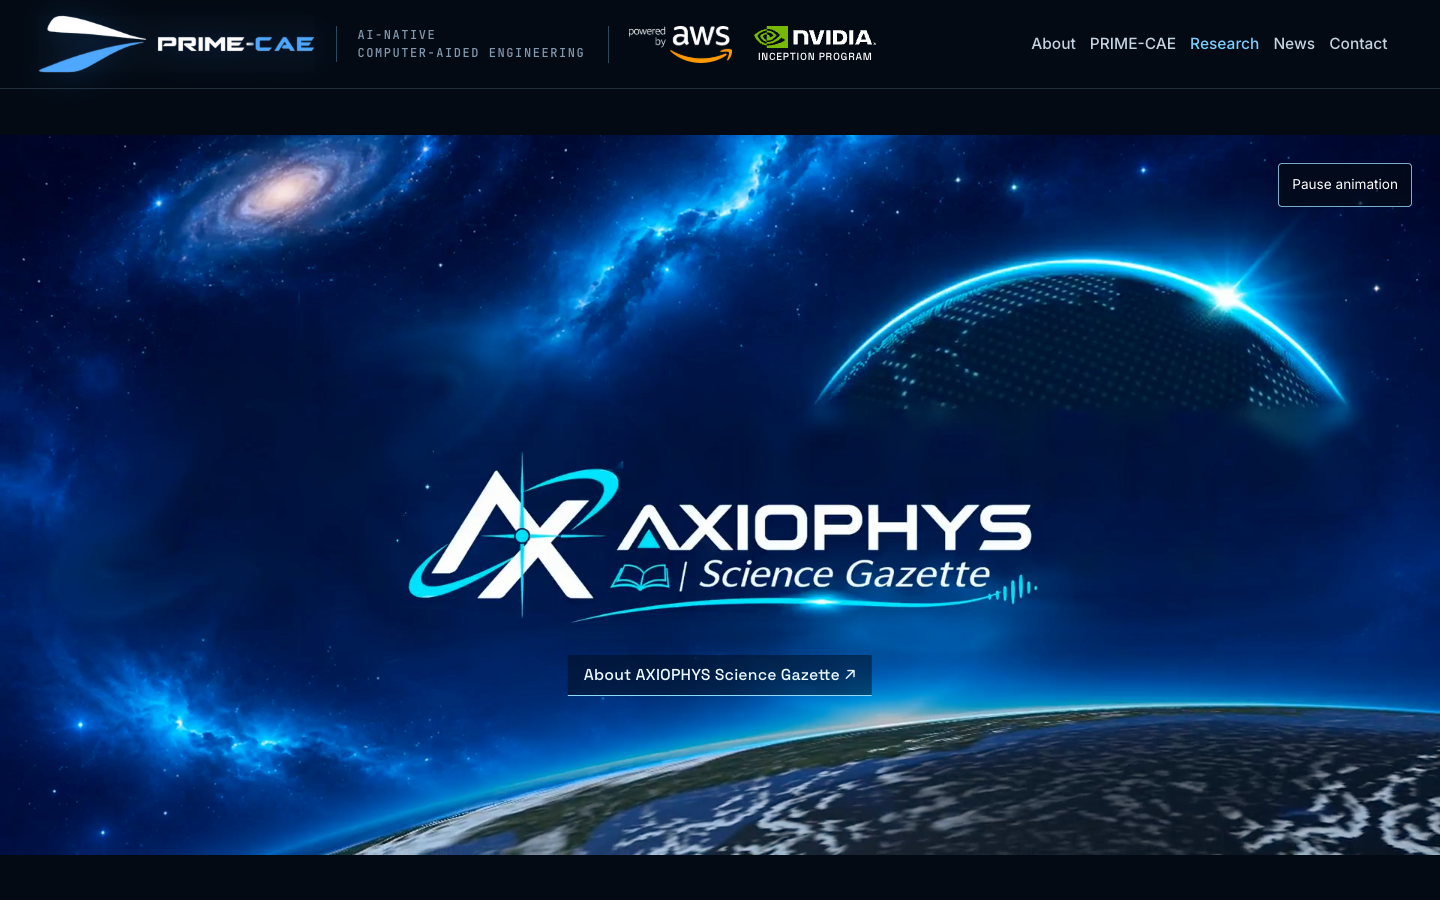
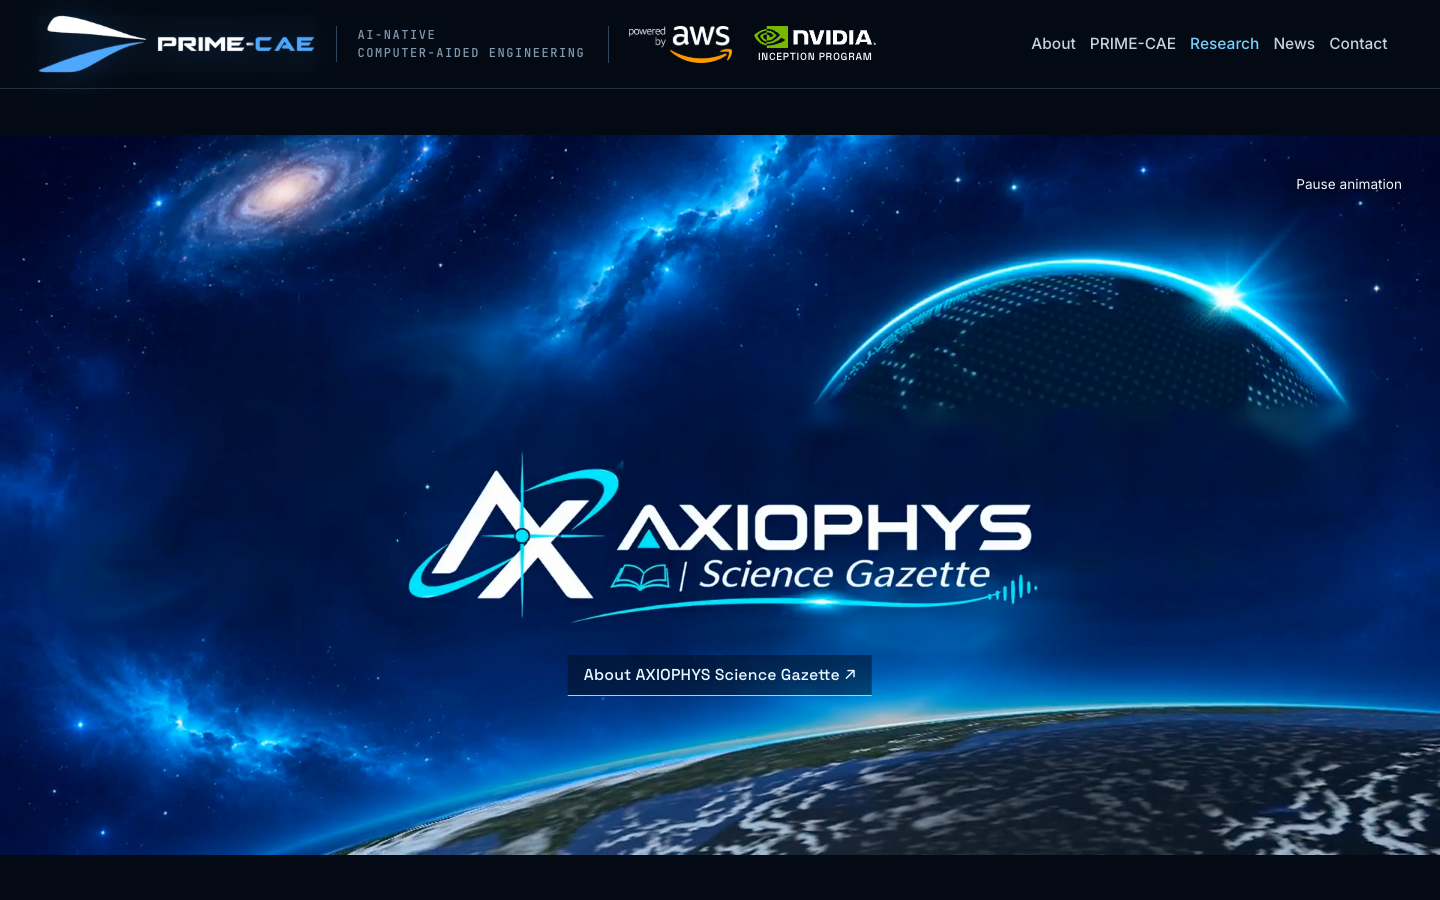
Tighten mobile Gazette hero and soften playback control

diff --git a/research.html b/research.html
@@ -1,4 +1,4 @@
-<!doctype html><html lang="en"><head><meta charset="utf-8"><meta name="viewport" content="width=device-width,initial-scale=1"><title>AXIOPHYS Science Gazette | Research &amp; Scientific Publications</title><meta name="description" content="Explore AXIOPHYS Science Gazette, the scientific communication platform of AXIOPHYS R&amp;D, featuring computational science, engineering demonstrations, research papers and PRIME-CAE manuals."><link rel="canonical" href="https://www.prime-cae.com/research.html"><meta name="theme-color" content="#030a14"><meta property="og:title" content="AXIOPHYS Science Gazette | Research &amp; Scientific Publications"><meta property="og:description" content="Explore AXIOPHYS Science Gazette, the scientific communication platform of AXIOPHYS R&amp;D, featuring computational science, engineering demonstrations, research papers and PRIME-CAE manuals."><meta property="og:url" content="https://www.prime-cae.com/research.html"><meta property="og:type" content="website"><meta property="og:image" content="https://www.prime-cae.com/media/gazette/science-gazette-poster.jpg"><link href="https://fonts.googleapis.com/css2?family=Space+Grotesk:wght@400;500;600&family=Inter:wght@400;500;600&family=JetBrains+Mono:wght@400;500&display=swap" rel="stylesheet"><link rel="stylesheet" href="css/tokens.css"><link rel="stylesheet" href="css/base.css"><link rel="stylesheet" href="css/layout.css"><link rel="stylesheet" href="css/components.css"><link rel="stylesheet" href="css/hero.css"><link rel="stylesheet" href="css/sections.css"><link rel="stylesheet" href="css/mobile.css"><link rel="stylesheet" href="css/news.css"><link rel="stylesheet" href="css/research.css?v=1"></head><body class="gazette-page"><header class="nav" id="nav" data-env="navy">
+<!doctype html><html lang="en"><head><meta charset="utf-8"><meta name="viewport" content="width=device-width,initial-scale=1"><title>AXIOPHYS Science Gazette | Research &amp; Scientific Publications</title><meta name="description" content="Explore AXIOPHYS Science Gazette, the scientific communication platform of AXIOPHYS R&amp;D, featuring computational science, engineering demonstrations, research papers and PRIME-CAE manuals."><link rel="canonical" href="https://www.prime-cae.com/research.html"><meta name="theme-color" content="#030a14"><meta property="og:title" content="AXIOPHYS Science Gazette | Research &amp; Scientific Publications"><meta property="og:description" content="Explore AXIOPHYS Science Gazette, the scientific communication platform of AXIOPHYS R&amp;D, featuring computational science, engineering demonstrations, research papers and PRIME-CAE manuals."><meta property="og:url" content="https://www.prime-cae.com/research.html"><meta property="og:type" content="website"><meta property="og:image" content="https://www.prime-cae.com/media/gazette/science-gazette-poster.jpg"><link href="https://fonts.googleapis.com/css2?family=Space+Grotesk:wght@400;500;600&family=Inter:wght@400;500;600&family=JetBrains+Mono:wght@400;500&display=swap" rel="stylesheet"><link rel="stylesheet" href="css/tokens.css"><link rel="stylesheet" href="css/base.css"><link rel="stylesheet" href="css/layout.css"><link rel="stylesheet" href="css/components.css"><link rel="stylesheet" href="css/hero.css"><link rel="stylesheet" href="css/sections.css"><link rel="stylesheet" href="css/mobile.css"><link rel="stylesheet" href="css/news.css"><link rel="stylesheet" href="css/research.css?v=2"></head><body class="gazette-page"><header class="nav" id="nav" data-env="navy">
   <div class="progress" aria-hidden="true"><i id="progressBar"></i></div>
   <div class="shell nav__in">
     <a class="nav__brand" href="#top" aria-label="PRIME-CAE home">

diff --git a/about-science-gazette.html b/about-science-gazette.html
@@ -1,4 +1,4 @@
-<!doctype html><html lang="en"><head><meta charset="utf-8"><meta name="viewport" content="width=device-width,initial-scale=1"><title>About AXIOPHYS Science Gazette | AXIOPHYS R&amp;D</title><meta name="description" content="The research philosophy behind AXIOPHYS Science Gazette and its connection between scientific discovery and engineering innovation."><link rel="canonical" href="https://www.prime-cae.com/about-science-gazette.html"><meta name="theme-color" content="#030a14"><meta property="og:title" content="About AXIOPHYS Science Gazette | AXIOPHYS R&amp;D"><meta property="og:description" content="The research philosophy behind AXIOPHYS Science Gazette and its connection between scientific discovery and engineering innovation."><meta property="og:url" content="https://www.prime-cae.com/about-science-gazette.html"><meta property="og:type" content="website"><meta property="og:image" content="https://www.prime-cae.com/media/gazette/science-gazette-poster.jpg"><link href="https://fonts.googleapis.com/css2?family=Space+Grotesk:wght@400;500;600&family=Inter:wght@400;500;600&family=JetBrains+Mono:wght@400;500&display=swap" rel="stylesheet"><link rel="stylesheet" href="css/tokens.css"><link rel="stylesheet" href="css/base.css"><link rel="stylesheet" href="css/layout.css"><link rel="stylesheet" href="css/components.css"><link rel="stylesheet" href="css/hero.css"><link rel="stylesheet" href="css/sections.css"><link rel="stylesheet" href="css/mobile.css"><link rel="stylesheet" href="css/research.css?v=1"></head><body class="gazette-page"><header class="nav" id="nav" data-env="navy">
+<!doctype html><html lang="en"><head><meta charset="utf-8"><meta name="viewport" content="width=device-width,initial-scale=1"><title>About AXIOPHYS Science Gazette | AXIOPHYS R&amp;D</title><meta name="description" content="The research philosophy behind AXIOPHYS Science Gazette and its connection between scientific discovery and engineering innovation."><link rel="canonical" href="https://www.prime-cae.com/about-science-gazette.html"><meta name="theme-color" content="#030a14"><meta property="og:title" content="About AXIOPHYS Science Gazette | AXIOPHYS R&amp;D"><meta property="og:description" content="The research philosophy behind AXIOPHYS Science Gazette and its connection between scientific discovery and engineering innovation."><meta property="og:url" content="https://www.prime-cae.com/about-science-gazette.html"><meta property="og:type" content="website"><meta property="og:image" content="https://www.prime-cae.com/media/gazette/science-gazette-poster.jpg"><link href="https://fonts.googleapis.com/css2?family=Space+Grotesk:wght@400;500;600&family=Inter:wght@400;500;600&family=JetBrains+Mono:wght@400;500&display=swap" rel="stylesheet"><link rel="stylesheet" href="css/tokens.css"><link rel="stylesheet" href="css/base.css"><link rel="stylesheet" href="css/layout.css"><link rel="stylesheet" href="css/components.css"><link rel="stylesheet" href="css/hero.css"><link rel="stylesheet" href="css/sections.css"><link rel="stylesheet" href="css/mobile.css"><link rel="stylesheet" href="css/research.css?v=2"></head><body class="gazette-page"><header class="nav" id="nav" data-env="navy">
   <div class="progress" aria-hidden="true"><i id="progressBar"></i></div>
   <div class="shell nav__in">
     <a class="nav__brand" href="#top" aria-label="PRIME-CAE home">

diff --git a/css/research.css b/css/research.css
@@ -7,7 +7,8 @@
 .gazette-hero video{display:block;width:100%;height:auto;max-height:calc(100svh - var(--gazette-nav-h,var(--nav-h)));aspect-ratio:2/1;object-fit:contain;background:#030a14}
 .gazette-hero__about{position:absolute;left:50%;bottom:22%;translate:-50% 0;z-index:2;white-space:nowrap;color:#e9f8ff;font:500 clamp(.88rem,1.1vw,1.1rem)/1.3 var(--font-sans);letter-spacing:.01em;padding:10px 16px;border-bottom:1px solid #8cdcf8;background:rgba(3,10,20,.48)}
 .gazette-hero__about:hover{background:rgba(3,10,20,.78)}
-.gazette-hero__play{position:absolute;right:clamp(12px,2vw,28px);top:clamp(12px,2vw,28px);z-index:2;color:#fff;background:rgba(3,10,20,.72);border:1px solid #7caccb;padding:9px 13px;min-height:44px;border-radius:4px;font-size:.85rem}
+.gazette-hero__play{position:absolute;right:clamp(12px,2vw,28px);top:clamp(12px,2vw,28px);z-index:2;color:#eef9ff;background:rgba(3,10,20,.12);border:0;padding:8px 10px;min-height:44px;font-size:.85rem;text-shadow:0 1px 8px #000}
+.gazette-hero__play:hover,.gazette-hero__play:focus-visible{background:rgba(3,10,20,.36)}
 .gazette-credit{padding-block:18px 24px;border-bottom:1px solid #d6e1e9;color:#476177;font-size:.82rem;line-height:1.7}
 .gazette-credit summary{cursor:pointer;color:#2a5877;min-height:30px}
 .gazette-credit p{max-width:85ch;margin:12px 0 0}.gazette-credit a,.gazette-article a:not(.gazette-back){color:#086ca8;text-decoration:underline;text-underline-offset:3px}
@@ -32,5 +33,5 @@
 .gazette-page .foot,.news-page .foot{background:#030a14;color:#d9eafa}
 .news-page .news-hero{padding-top:calc(var(--nav-h) + 46px)}
 .news-content#news-updates{scroll-margin-top:calc(var(--nav-h) + 22px)}
-@media(max-width:700px){.gazette-hero{min-height:74svh;align-content:center}.gazette-hero__frame{padding-bottom:74px}.gazette-hero video{max-height:none}.gazette-hero__about{bottom:16px;left:50%;max-width:calc(100% - 28px);white-space:normal;text-align:center;font-size:.88rem}.gazette-hero__play{top:-52px;right:12px;font-size:.75rem}.gazette-categories a{min-height:52px}.gazette-intro{padding-block:54px}.gazette-browser{padding-bottom:60px}.gazette-article{padding-top:calc(var(--gazette-nav-h,var(--nav-h)) + 38px)}.gazette-article .gazette-back{margin-bottom:38px}}
+@media(max-width:700px){.gazette-hero{min-height:0;padding-top:calc(var(--gazette-nav-h,var(--nav-h)) + 16px);padding-bottom:16px;display:block}.gazette-hero__frame{padding-bottom:64px}.gazette-hero video{max-height:none}.gazette-hero__about{bottom:12px;left:50%;max-width:calc(100% - 28px);white-space:normal;text-align:center;font-size:.88rem}.gazette-hero__play{top:8px;right:8px;font-size:.75rem;background:rgba(3,10,20,.08)}.gazette-categories a{min-height:52px}.gazette-intro{padding-block:54px}.gazette-browser{padding-bottom:60px}.gazette-article{padding-top:calc(var(--gazette-nav-h,var(--nav-h)) + 38px)}.gazette-article .gazette-back{margin-bottom:38px}}
 @media(prefers-reduced-motion:reduce){.gazette-hero video{animation:none}}

diff --git a/news.html b/news.html
@@ -1,4 +1,4 @@
-<!doctype html><html lang="en"><head><meta charset="utf-8"><meta name="viewport" content="width=device-width,initial-scale=1"><title>News | PRIME-CAE</title><meta name="description" content="Corporate announcements and company milestones from AXIOPHYS and PRIME-CAE."><link rel="canonical" href="https://www.prime-cae.com/news.html"><meta name="theme-color" content="#030a14"><meta property="og:title" content="News | PRIME-CAE"><meta property="og:description" content="Corporate announcements and company milestones from AXIOPHYS and PRIME-CAE."><meta property="og:url" content="https://www.prime-cae.com/news.html"><meta property="og:type" content="website"><link href="https://fonts.googleapis.com/css2?family=Space+Grotesk:wght@400;500;600&family=Inter:wght@400;500;600&family=JetBrains+Mono:wght@400;500&display=swap" rel="stylesheet"><link rel="stylesheet" href="css/tokens.css"><link rel="stylesheet" href="css/base.css"><link rel="stylesheet" href="css/layout.css"><link rel="stylesheet" href="css/components.css"><link rel="stylesheet" href="css/hero.css"><link rel="stylesheet" href="css/sections.css"><link rel="stylesheet" href="css/mobile.css"><link rel="stylesheet" href="css/news.css"><link rel="stylesheet" href="css/research.css?v=1"></head><body class="news-page news-index"><header class="nav" id="nav" data-env="navy">
+<!doctype html><html lang="en"><head><meta charset="utf-8"><meta name="viewport" content="width=device-width,initial-scale=1"><title>News | PRIME-CAE</title><meta name="description" content="Corporate announcements and company milestones from AXIOPHYS and PRIME-CAE."><link rel="canonical" href="https://www.prime-cae.com/news.html"><meta name="theme-color" content="#030a14"><meta property="og:title" content="News | PRIME-CAE"><meta property="og:description" content="Corporate announcements and company milestones from AXIOPHYS and PRIME-CAE."><meta property="og:url" content="https://www.prime-cae.com/news.html"><meta property="og:type" content="website"><link href="https://fonts.googleapis.com/css2?family=Space+Grotesk:wght@400;500;600&family=Inter:wght@400;500;600&family=JetBrains+Mono:wght@400;500&display=swap" rel="stylesheet"><link rel="stylesheet" href="css/tokens.css"><link rel="stylesheet" href="css/base.css"><link rel="stylesheet" href="css/layout.css"><link rel="stylesheet" href="css/components.css"><link rel="stylesheet" href="css/hero.css"><link rel="stylesheet" href="css/sections.css"><link rel="stylesheet" href="css/mobile.css"><link rel="stylesheet" href="css/news.css"><link rel="stylesheet" href="css/research.css?v=2"></head><body class="news-page news-index"><header class="nav" id="nav" data-env="navy">
   <div class="progress" aria-hidden="true"><i id="progressBar"></i></div>
   <div class="shell nav__in">
     <a class="nav__brand" href="#top" aria-label="PRIME-CAE home">
